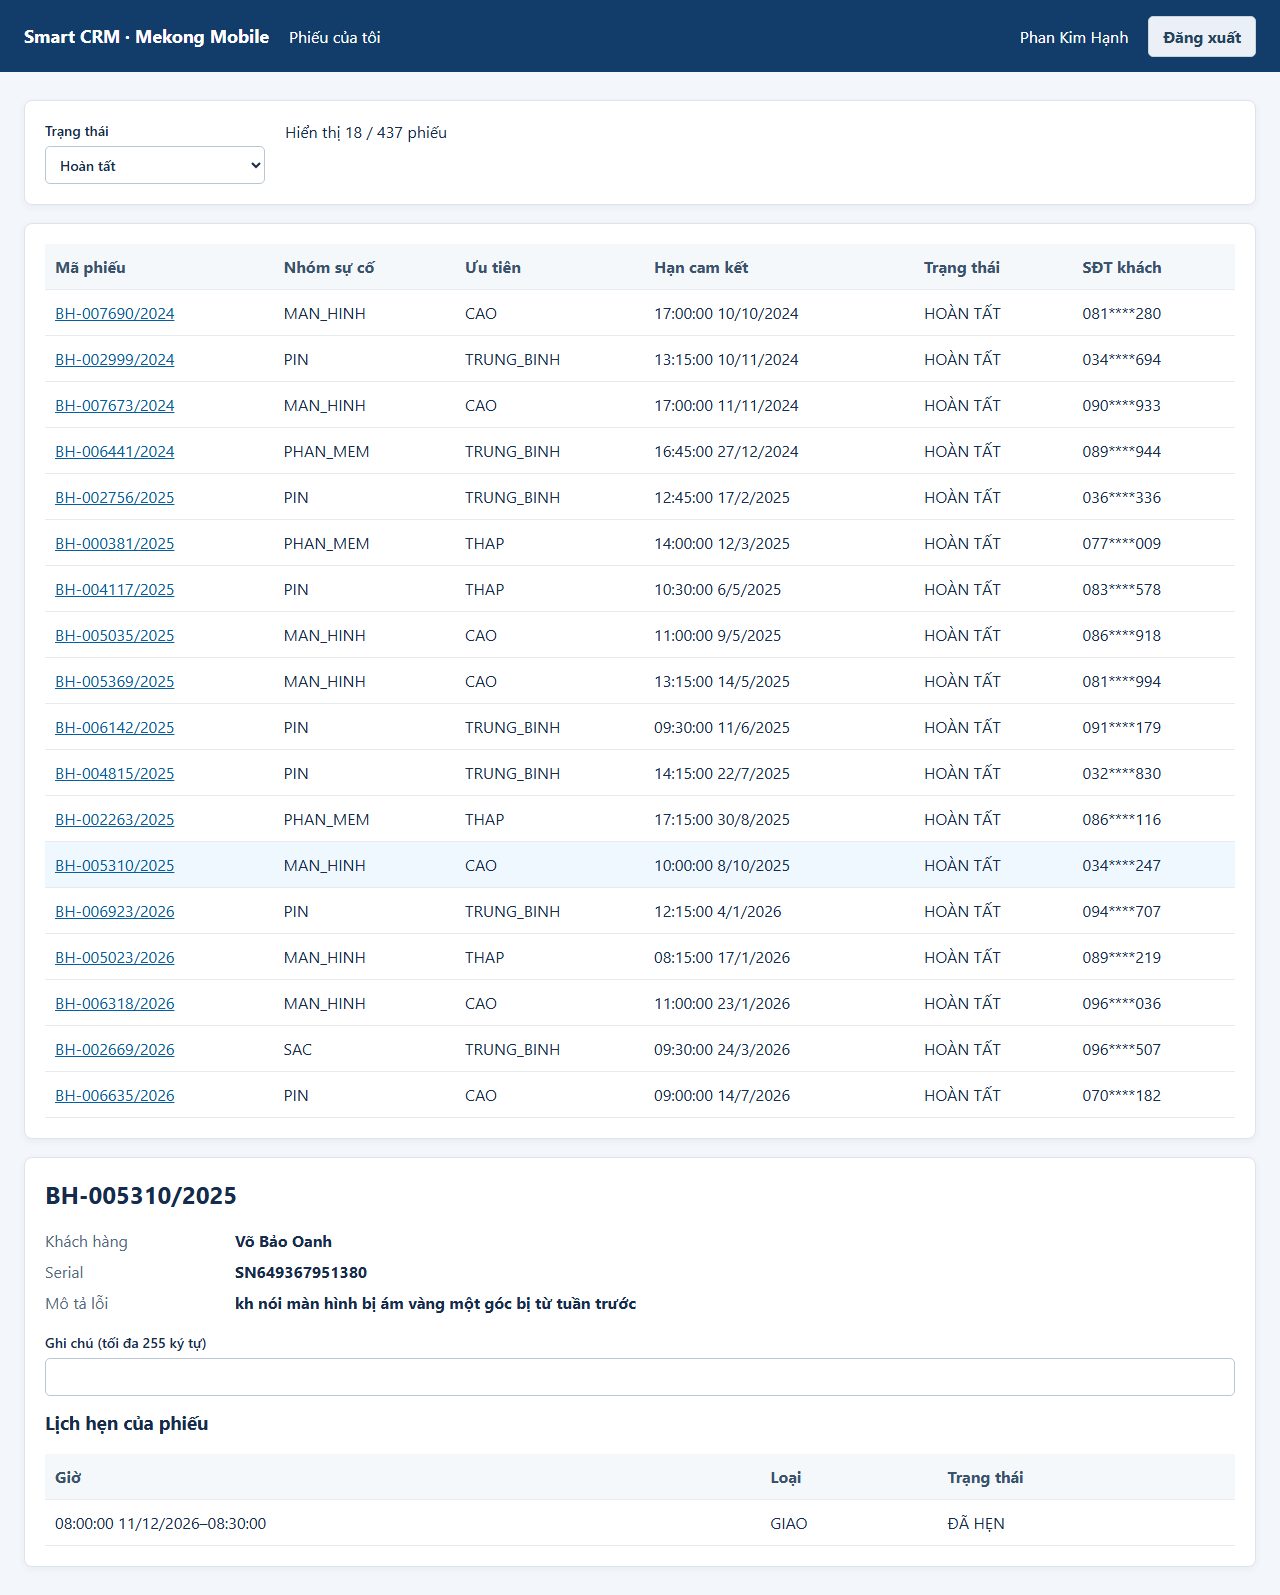
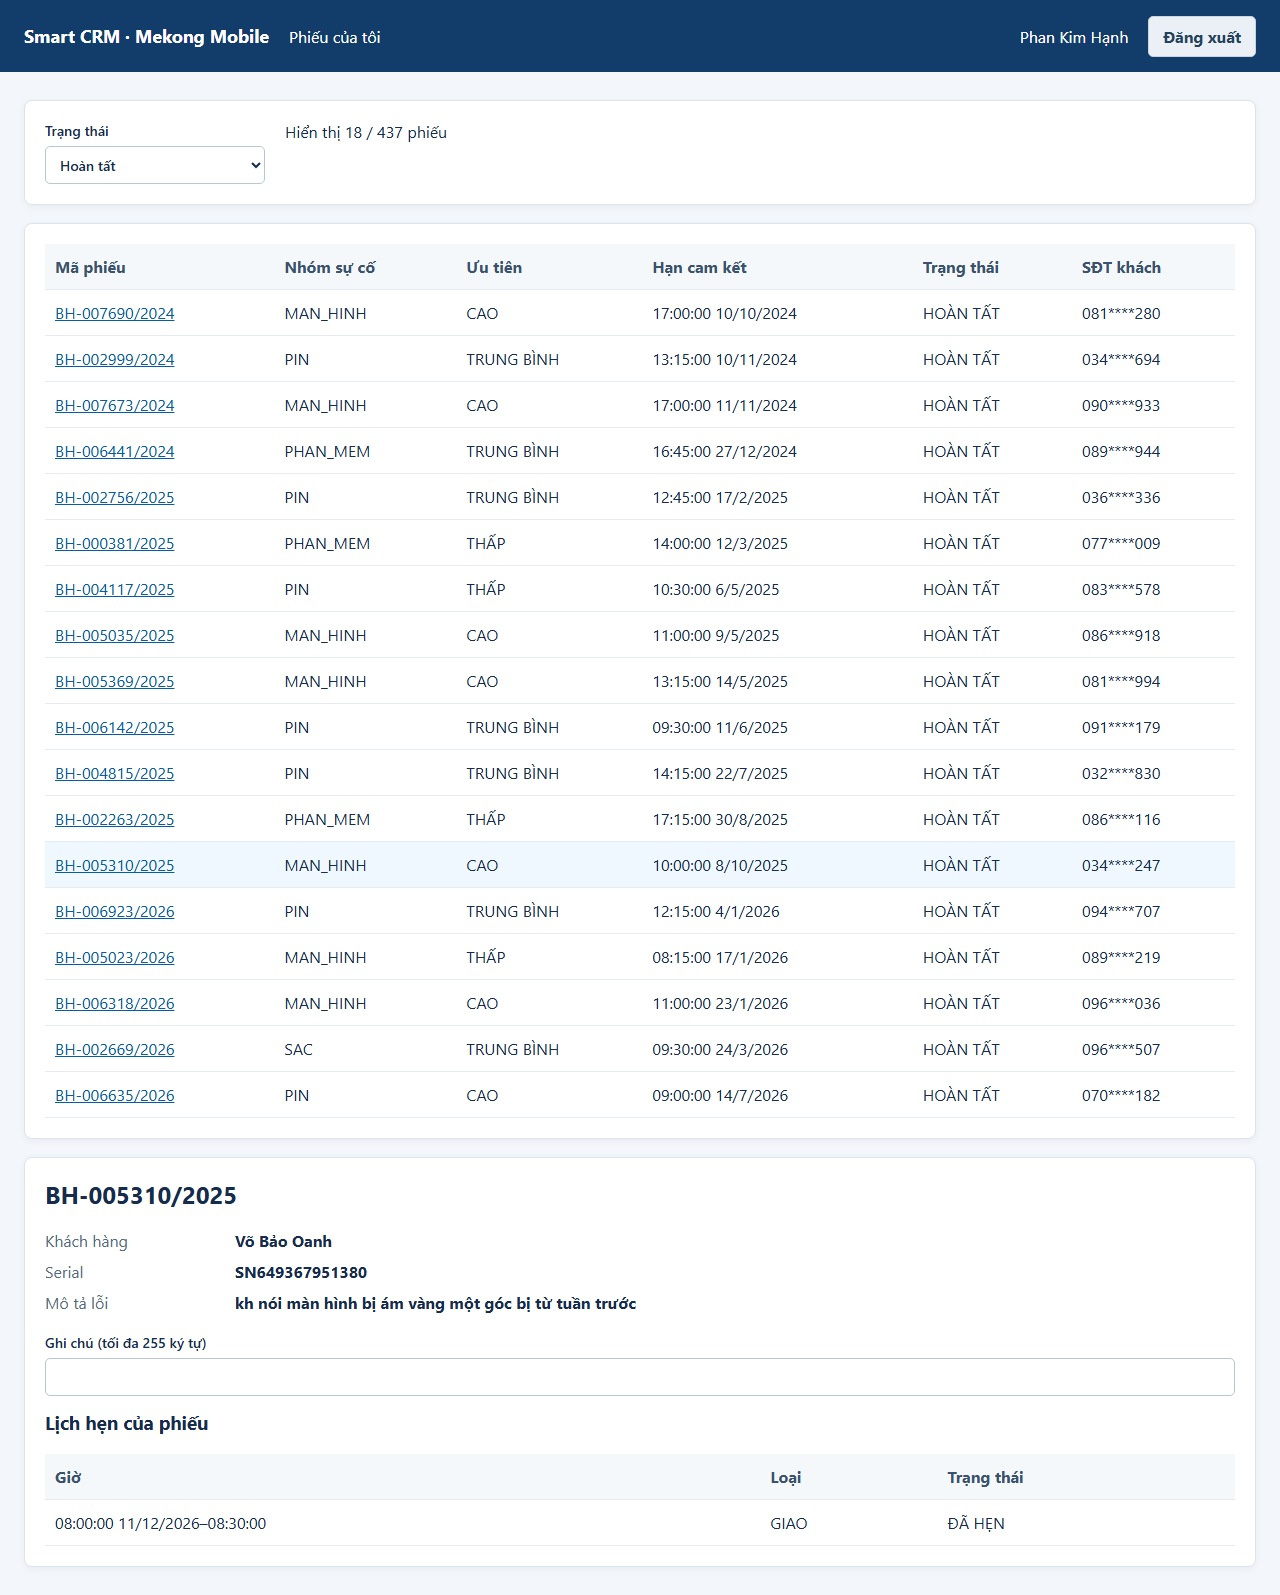
fix: confirm saved appointments in M2, stop M3 flicker, label priorities
- M2 shows the saved appointment (type and time) after booking.
- M3 no longer reloads the whole list when a ticket is selected, and
  refreshes silently after a status change.
- M1, M2 and M3 share Vietnamese priority labels.
The e2e test now checks all three; the flicker check was confirmed to
fail against the old behaviour.

diff --git a/src/frontend/src/pages/AssignTechnicianPage.jsx b/src/frontend/src/pages/AssignTechnicianPage.jsx
@@ -4,6 +4,17 @@ import { assignTicket, changeAssignment, getSuggestions, getTicket } from '../ap
 import AppHeader from '../components/AppHeader.jsx';
 import AppointmentForm from '../components/AppointmentForm.jsx';
 import DataState from '../components/DataState.jsx';
+import { priorityLabel } from '../labels.js';
+
+function appointmentSavedMessage(appointment) {
+  if (!appointment?.start_at) return 'Đã đặt lịch hẹn.';
+  const start = new Date(appointment.start_at);
+  const end = new Date(appointment.end_at);
+  return `Đã đặt lịch ${appointment.appointment_type === 'NHAN' ? 'NHẬN' : 'GIAO'} lúc `
+    + `${start.toLocaleTimeString('vi-VN', { hour: '2-digit', minute: '2-digit' })}–`
+    + `${end.toLocaleTimeString('vi-VN', { hour: '2-digit', minute: '2-digit' })} `
+    + `ngày ${start.toLocaleDateString('vi-VN')}.`;
+}
 
 const statusLabel = {
   MOI: 'MỚI', DA_PHAN_CONG: 'ĐÃ PHÂN CÔNG', DANG_XU_LY: 'ĐANG XỬ LÝ',
@@ -23,6 +34,7 @@ export default function AssignTechnicianPage({ user, onLogout }) {
   const [actionError, setActionError] = useState(null);
   const [busy, setBusy] = useState(false);
   const [showAppointment, setShowAppointment] = useState(false);
+  const [appointmentNotice, setAppointmentNotice] = useState('');
 
   const load = useCallback(async () => {
     setLoading(true);
@@ -87,7 +99,7 @@ export default function AssignTechnicianPage({ user, onLogout }) {
                 <span>Serial</span><strong>{ticket.serial_no}</strong>
                 <span>Mô tả lỗi</span><strong>{ticket.issue_desc}</strong>
                 <span>Nhóm sự cố</span><strong>{ticket.category_code}</strong>
-                <span>Mức ưu tiên</span><strong>{ticket.priority}</strong>
+                <span>Mức ưu tiên</span><strong>{priorityLabel[ticket.priority] || ticket.priority}</strong>
                 <span>Hạn cam kết</span><strong>{new Date(ticket.due_date).toLocaleString('vi-VN')}</strong>
                 <span>Trạng thái</span><strong>{statusLabel[ticket.status]}</strong>
                 {ticket.technician && <><span>Kỹ thuật viên hiện tại</span><strong>{ticket.technician.technician_code} · {ticket.technician.full_name}</strong></>}
@@ -121,11 +133,12 @@ export default function AssignTechnicianPage({ user, onLogout }) {
                 <button className="button" disabled={busy || !selectedId || ticket.status === 'HOAN_TAT' || (ticket.technician_id != null && !reason.trim())} onClick={saveAssignment}>
                   {ticket.technician_id == null ? 'Xác nhận phân công' : 'Lưu đổi kỹ thuật viên'}
                 </button>
-                {ticket.technician_id != null && <button className="button secondary" onClick={() => setShowAppointment((value) => !value)}>Đặt lịch hẹn</button>}
+                {ticket.technician_id != null && <button className="button secondary" onClick={() => { setAppointmentNotice(''); setShowAppointment((value) => !value); }}>Đặt lịch hẹn</button>}
                 <button className="button secondary" onClick={() => navigate('/tickets')}>Hủy</button>
               </div>
             </section>
-            {showAppointment && <AppointmentForm ticketId={Number(id)} onSaved={async () => { setShowAppointment(false); }} onCancel={() => setShowAppointment(false)} />}
+            {appointmentNotice && <div className="notice success" role="status">{appointmentNotice}</div>}
+            {showAppointment && <AppointmentForm ticketId={Number(id)} onSaved={async (appointment) => { setShowAppointment(false); setAppointmentNotice(appointmentSavedMessage(appointment)); }} onCancel={() => setShowAppointment(false)} />}
             <section className="panel table-wrap">
               <h3>Lịch sử trạng thái</h3>
               <table><thead><tr><th>Thời điểm</th><th>Sự kiện</th><th>Từ → Đến</th><th>Kỹ thuật viên cũ → mới</th><th>Ghi chú</th></tr></thead>

diff --git a/src/frontend/src/pages/MyTicketsPage.jsx b/src/frontend/src/pages/MyTicketsPage.jsx
@@ -4,6 +4,7 @@ import { getTicket, getTicketAppointments, updateStatus } from '../api/tickets.a
 import AppHeader from '../components/AppHeader.jsx';
 import AppointmentForm from '../components/AppointmentForm.jsx';
 import DataState from '../components/DataState.jsx';
+import { priorityLabel } from '../labels.js';
 
 const statusLabel = {
   MOI: 'MỚI', DA_PHAN_CONG: 'ĐÃ PHÂN CÔNG', DANG_XU_LY: 'ĐANG XỬ LÝ',
@@ -39,36 +40,41 @@ export default function MyTicketsPage({ user, onLogout }) {
   const [statusFilter, setStatusFilter] = useState('');
   const visibleTickets = tickets.filter((ticket) => matchesFilter(ticket, statusFilter));
 
-  const load = useCallback(async () => {
-    setLoading(true);
+  // A silent refresh keeps the list and the selected ticket on screen (no loading state).
+  const load = useCallback(async ({ silent = false } = {}) => {
+    if (!silent) setLoading(true);
     setError(null);
     try {
       const result = await getMyTickets();
       setTickets(result);
-      if (selected && !result.some((ticket) => ticket.ticket_id === selected.ticket_id)) {
-        setSelected(null);
-        setAppointments([]);
-      }
+      setSelected((current) => (
+        current && !result.some((ticket) => ticket.ticket_id === current.ticket_id) ? null : current
+      ));
     } catch (requestError) {
       setError(requestError);
     } finally {
-      setLoading(false);
+      if (!silent) setLoading(false);
     }
-  }, [selected]);
+  }, []);
 
   useEffect(() => { load(); }, [load]);
+  useEffect(() => { if (!selected) setAppointments([]); }, [selected]);
 
   async function selectTicket(ticket) {
-    setSelected(await getTicket(ticket.ticket_id));
-    setAppointments(await getTicketAppointments(ticket.ticket_id));
-    setActionError(null);
+    try {
+      setSelected(await getTicket(ticket.ticket_id));
+      setAppointments(await getTicketAppointments(ticket.ticket_id));
+      setActionError(null);
+    } catch (requestError) {
+      setActionError(requestError);
+    }
   }
 
   async function changeStatus(status) {
     try {
       await updateStatus(selected.ticket_id, status, note);
       setNote('');
-      await load();
+      await load({ silent: true });
       await selectTicket({ ticket_id: selected.ticket_id });
     } catch (requestError) {
       setActionError(requestError);
@@ -97,12 +103,12 @@ export default function MyTicketsPage({ user, onLogout }) {
           error={error}
           isEmpty={!visibleTickets.length}
           emptyMessage={tickets.length ? 'Không có phiếu ở trạng thái đã chọn' : 'Chưa có phiếu được giao'}
-          onRetry={load}
+          onRetry={() => load()}
         >
           <section className="panel table-wrap">
             <table><thead><tr><th>Mã phiếu</th><th>Nhóm sự cố</th><th>Ưu tiên</th><th>Hạn cam kết</th><th>Trạng thái</th><th>SĐT khách</th></tr></thead>
               <tbody>{visibleTickets.map((ticket) => <tr key={ticket.ticket_id} className={selected?.ticket_id === ticket.ticket_id ? 'selected' : ''} onClick={() => selectTicket(ticket)}>
-                <td><button className="link-button" onClick={(event) => { event.stopPropagation(); selectTicket(ticket); }}>{ticket.ticket_code}</button></td><td>{ticket.category_code}</td><td>{ticket.priority}</td>
+                <td><button className="link-button" onClick={(event) => { event.stopPropagation(); selectTicket(ticket); }}>{ticket.ticket_code}</button></td><td>{ticket.category_code}</td><td>{priorityLabel[ticket.priority] || ticket.priority}</td>
                 <td>{new Date(ticket.due_date).toLocaleString('vi-VN')}{ticket.is_overdue && <strong className="overdue"> QUÁ HẠN</strong>}</td>
                 <td>{statusLabel[ticket.status] || ticket.status}</td><td>{ticket.customer_phone}</td>
               </tr>)}</tbody>

diff --git a/src/frontend/src/components/AppointmentForm.jsx b/src/frontend/src/components/AppointmentForm.jsx
@@ -15,7 +15,8 @@ export default function AppointmentForm({ ticketId, onSaved, onCancel }) {
   const [note, setNote] = useState('');
   const [busy, setBusy] = useState(false);
   const [error, setError] = useState(null);
-  const [created, setCreated] = useState(false);
+  // The appointment returned by the API once it is saved; a retry then only reloads.
+  const [created, setCreated] = useState(null);
 
   const end = (() => {
     const [hours, minutes] = start.split(':').map(Number);
@@ -34,19 +35,20 @@ export default function AppointmentForm({ ticketId, onSaved, onCancel }) {
     setBusy(true);
     setError(null);
     try {
-      if (!created) {
+      let appointment = created;
+      if (!appointment) {
         const startAt = new Date(`${date}T${start}:00+07:00`).toISOString();
         const endAt = new Date(`${date}T${end}:00+07:00`).toISOString();
-        await createAppointment({
+        appointment = await createAppointment({
           ticket_id: ticketId,
           appointment_type: appointmentType,
           start_at: startAt,
           end_at: endAt,
           note: note.trim() || null,
         });
-        setCreated(true);
+        setCreated(appointment);
       }
-      await onSaved();
+      await onSaved(appointment);
     } catch (requestError) {
       setError(requestError);
     } finally {

diff --git a/src/frontend/src/pages/PendingTicketsPage.jsx b/src/frontend/src/pages/PendingTicketsPage.jsx
@@ -3,9 +3,9 @@ import { useNavigate } from 'react-router-dom';
 import { listTickets } from '../api/tickets.api.js';
 import AppHeader from '../components/AppHeader.jsx';
 import DataState from '../components/DataState.jsx';
+import { priorityLabel } from '../labels.js';
 
 const priorities = ['CAO', 'TRUNG_BINH', 'THAP'];
-const priorityLabel = { CAO: 'CAO', TRUNG_BINH: 'TRUNG BÌNH', THAP: 'THẤP' };
 
 export default function PendingTicketsPage({ user, onLogout }) {
   const [items, setItems] = useState([]);

diff --git a/src/frontend/src/styles.css b/src/frontend/src/styles.css
@@ -52,6 +52,7 @@ th { color: #39536f; background: #f5f8fb; white-space: nowrap; }
 .reason-field { max-width: 600px; margin-top: 18px; }
 .notice { margin: 14px 0; padding: 12px; border-radius: 5px; }
 .notice.error { border: 1px solid #e2a4a4; }
+.notice.success { border: 1px solid #8cc9a5; background: #eefaf2; }
 .form-grid { display: grid; grid-template-columns: repeat(2, minmax(180px, 1fr)); gap: 14px; }
 .form-grid h3, .wide { grid-column: 1 / -1; }
 .form-actions.wide { grid-column: 1 / -1; }

diff --git a/src/frontend/src/labels.js b/src/frontend/src/labels.js
@@ -1,0 +1,2 @@
+// Vietnamese display labels for codes returned by the API.
+export const priorityLabel = { CAO: 'CAO', TRUNG_BINH: 'TRUNG BÌNH', THAP: 'THẤP' };

diff --git a/tests/e2e/test_main_flow.py b/tests/e2e/test_main_flow.py
@@ -230,6 +230,11 @@ def test_main_flow_from_assignment_to_completion(page: Page, backend: Backend) -
     shot(page, "06_M2_dat_lich_hen")
     page.get_by_role("button", name="Lưu lịch hẹn").click()
     expect(page.get_by_role("button", name="Lưu lịch hẹn")).to_be_hidden()
+    end = slot + timedelta(minutes=30)
+    expect(page.get_by_role("status")).to_contain_text(
+        f"Đã đặt lịch GIAO lúc {slot:%H:%M}–{end:%H:%M}"
+    )
+    shot(page, "06b_M2_dat_lich_thanh_cong")
     with _work_connection() as connection:
         appointment = connection.execute(
             """SELECT appointment_type, status, start_at FROM appointment
@@ -245,6 +250,17 @@ def test_main_flow_from_assignment_to_completion(page: Page, backend: Backend) -
     expect(page).to_have_url(f"{UI_URL}/my-tickets")
     status_filter = page.get_by_label("Trạng thái")
     status_filter.select_option("DANG_LAM")
+    expect(page.get_by_role("button", name=ticket_code)).to_be_visible()
+    expect(page.get_by_role("cell", name="TRUNG_BINH", exact=True)).to_have_count(0)
+    # From here on, record whether the full-page loading state ever appears (flicker).
+    page.evaluate(
+        """() => {
+            window.__sawLoading = false;
+            new MutationObserver(() => {
+                if (document.querySelector('[data-testid="state-loading"]')) window.__sawLoading = true;
+            }).observe(document.body, { childList: true, subtree: true });
+        }"""
+    )
     page.get_by_role("button", name=ticket_code).click()
     expect(page.get_by_role("heading", name=ticket_code)).to_be_visible()
     expect(page.get_by_role("cell", name="ĐÃ HẸN")).to_be_visible()
@@ -255,6 +271,7 @@ def test_main_flow_from_assignment_to_completion(page: Page, backend: Backend) -
     page.get_by_role("button", name="Bắt đầu sửa").click()
     page.get_by_role("button", name="Hoàn tất").click()
     expect(page.get_by_role("button", name="Đặt lịch hẹn")).to_be_hidden()
+    assert page.evaluate("window.__sawLoading") is False, "M3 nhấp nháy trạng thái Đang tải khi chọn phiếu/đổi trạng thái"
     status_filter.select_option("HOAN_TAT")
     expect(page.get_by_role("row", name=ticket_code)).to_contain_text("HOÀN TẤT")
     shot(page, "08_M3_hoan_tat_phieu")

diff --git a/docs/tich-hop-end-to-end.md b/docs/tich-hop-end-to-end.md
@@ -32,12 +32,9 @@ Tài liệu ghi lại cách ghép các module thành luồng chính L04, các ch
 | 2 | M3 của KT033 dài 437 dòng (≈ 20.000 px), phiếu cần làm bị chìm | Logic / ý nghĩa | Dữ liệu thật: mỗi KTV giữ trung bình 192, tối đa 443 phiếu, phần lớn `DA_DONG`; màn hình không có cách lọc | Thêm ô lọc "Trạng thái" (mặc định Tất cả). Không ẩn phiếu đã đóng/đã hủy vì KTV vẫn có quyền xem phiếu của chính mình – TD-13 |
 | 3 | pytest dừng với `INTERNALERROR UnicodeEncodeError` khi tên test có tiếng Việt | Logic (môi trường) | Hook in kết quả dùng `print` trên stdout cp1252 (pipe của Git Bash) | Mã hoá an toàn trong `tests/conftest.py` |
 | 4 | TC21 (UI giả lập) báo `strict mode violation` sau khi thêm bộ lọc | Test | Locator `get_by_text("HOÀN TẤT")` không phân biệt hoa thường, khớp cả `<option>Hoàn tất</option>` | Đổi sang ô bảng khớp chính xác, giữ nguyên ý nghĩa kiểm tra |
-
-Ghi nhận, chưa sửa (không chặn luồng chính):
-
-- M2: đặt lịch thành công chỉ đóng form, không có thông báo xác nhận; lịch hẹn chỉ thấy ở M3.
-- M3: chọn một phiếu làm danh sách tải lại (`load` phụ thuộc `selected`), gây nhấp nháy "Đang tải dữ liệu…".
-- M3 hiển thị mức ưu tiên dạng mã (`TRUNG_BINH`), M1 hiển thị nhãn (`TRUNG BÌNH`).
+| 5 | M2: đặt lịch thành công chỉ đóng form, không có thông báo | Logic (giao diện) | Form không trả lịch vừa tạo cho trang cha | Form trả lịch API vừa tạo; M2 hiện "Đã đặt lịch GIAO lúc 08:00–08:30 ngày …" (E2E_06b) |
+| 6 | M3: chọn phiếu hoặc đổi trạng thái làm cả danh sách nhấp nháy "Đang tải dữ liệu…" | Logic (giao diện) | `load` phụ thuộc `selected`, mỗi lần chọn phiếu tải lại và bật trạng thái đang tải | `load` không phụ thuộc `selected`; đổi trạng thái làm mới ngầm. Test e2e theo dõi DOM bằng `MutationObserver` và fail nếu trạng thái đang tải xuất hiện (đã thử: hành vi cũ làm test fail) |
+| 7 | M3 hiển thị mức ưu tiên dạng mã `TRUNG_BINH`, M1 hiển thị `TRUNG BÌNH` | Hợp đồng dữ liệu | Nhãn chỉ khai báo trong M1 | Nhãn dùng chung `src/frontend/src/labels.js` cho M1, M2, M3 |
 
 ## 4. Chạy toàn luồng trên dữ liệu thật
 
@@ -59,7 +56,7 @@ python -m pytest tests\e2e -m e2e
 | – | Tắt backend, đổi bộ lọc | "Không thể kết nối máy chủ. Vui lòng thử lại." + nút Thử lại; bật lại, bấm Thử lại → danh sách trở lại | E2E_03 |
 | 3 | Mở `BH-005310/2025` | 2 gợi ý: KT033 (tay nghề 5, khối lượng 61), KT020 (5, 76) | E2E_04 |
 | 4 | Chọn KT033, Xác nhận phân công | Trạng thái ĐÃ PHÂN CÔNG; log `MOI → DA_PHAN_CONG`; SQL xác nhận `ticket.technician_id` = KT033 | E2E_05 |
-| 5 | GIAO, khung trống đầu tiên của KT033 ngày 11/12/2026 08:00–08:30 | SQL: 1 lịch `GIAO`/`DA_HEN` đúng giờ | E2E_06 |
+| 5 | GIAO, khung trống đầu tiên của KT033 ngày 11/12/2026 08:00–08:30 | Thông báo "Đã đặt lịch GIAO lúc 08:00–08:30 ngày 11/12/2026."; SQL: 1 lịch `GIAO`/`DA_HEN` đúng giờ | E2E_06, E2E_06b |
 | 6 | `KT033`, lọc "Đang làm" | Thấy phiếu và lịch hẹn ĐÃ HẸN; SĐT khách bị che | E2E_07 |
 | 7 | Ghi chú "Đã kiểm tra thiết bị", Bắt đầu sửa → Hoàn tất | Phiếu HOÀN TẤT, nút Đặt lịch ẩn; SQL: log `DA_PHAN_CONG → DANG_XU_LY` (có ghi chú) và `DANG_XU_LY → HOAN_TAT` | E2E_08 |
 | – | Lọc "Đã đóng" | 359 / 437 phiếu, đúng bằng số phiếu `DA_DONG` của KT033 trong DB | E2E_09 |

diff --git a/docs/thay-doi-thiet-ke.md b/docs/thay-doi-thiet-ke.md
@@ -109,5 +109,4 @@ Các thay đổi thiết kế phát sinh khi hiện thực Sprint 2 (Buổi 10),
 | Hủy lịch hẹn trên giao diện | Hoãn | Wireframe không có thao tác hủy (TD-05) |
 | Màn hình thứ tư trở đi, trang chi tiết phiếu riêng | Cắt | Chi tiết phiếu đã nằm trong M2 và M3; ưu tiên luồng chính chạy end-to-end |
 | TC01–TC18 (acceptance test theo báo cáo Word) | Hoãn sang Buổi 12 | Ưu tiên test lớp nghiệp vụ và một test e2e luồng chính trên dữ liệu thật |
-| Thông báo xác nhận sau khi đặt lịch ở M2, nhãn mức ưu tiên ở M3 | Hoãn | Không chặn luồng chính; ghi trong `docs/tich-hop-end-to-end.md` |
 | Khoá phiên bản thư viện (`requirements*.txt`, Docker) | Hoãn sang Buổi 11 | Nội dung quản lý phụ thuộc của Buổi 11 |
